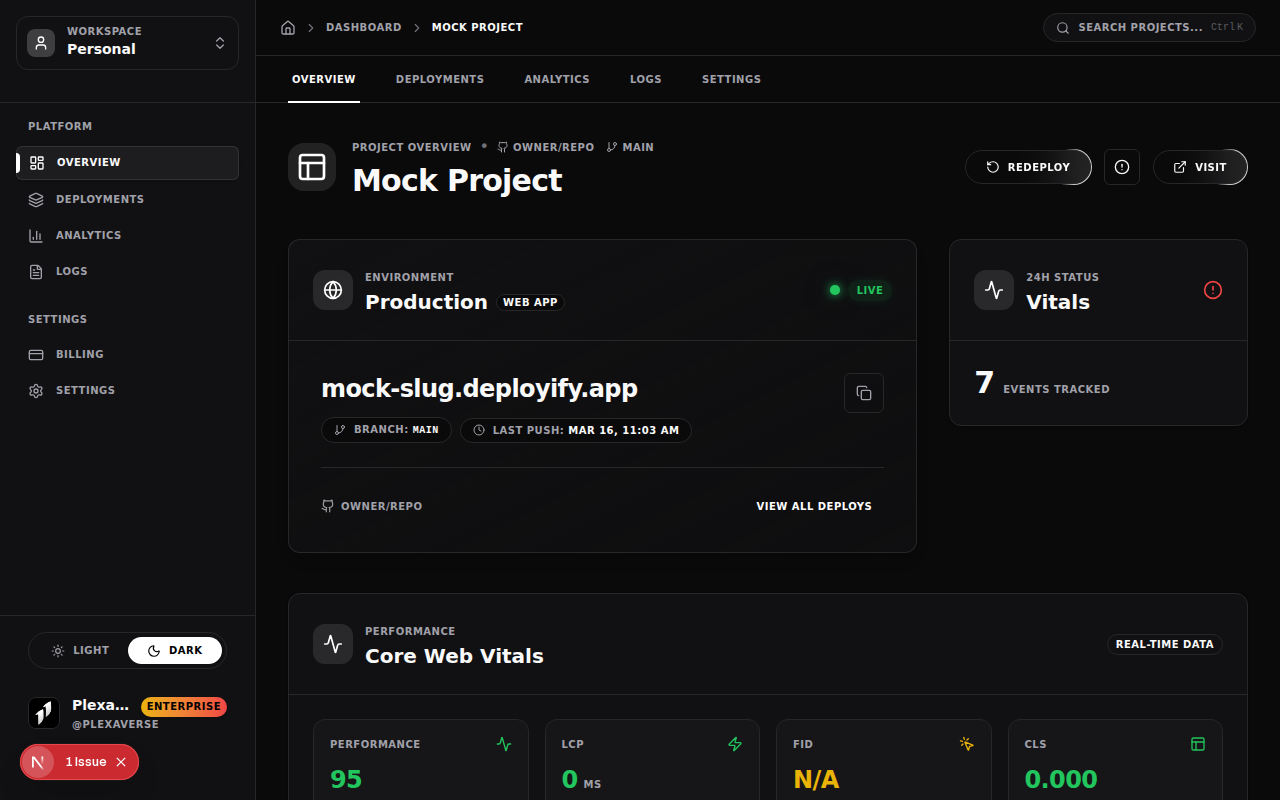
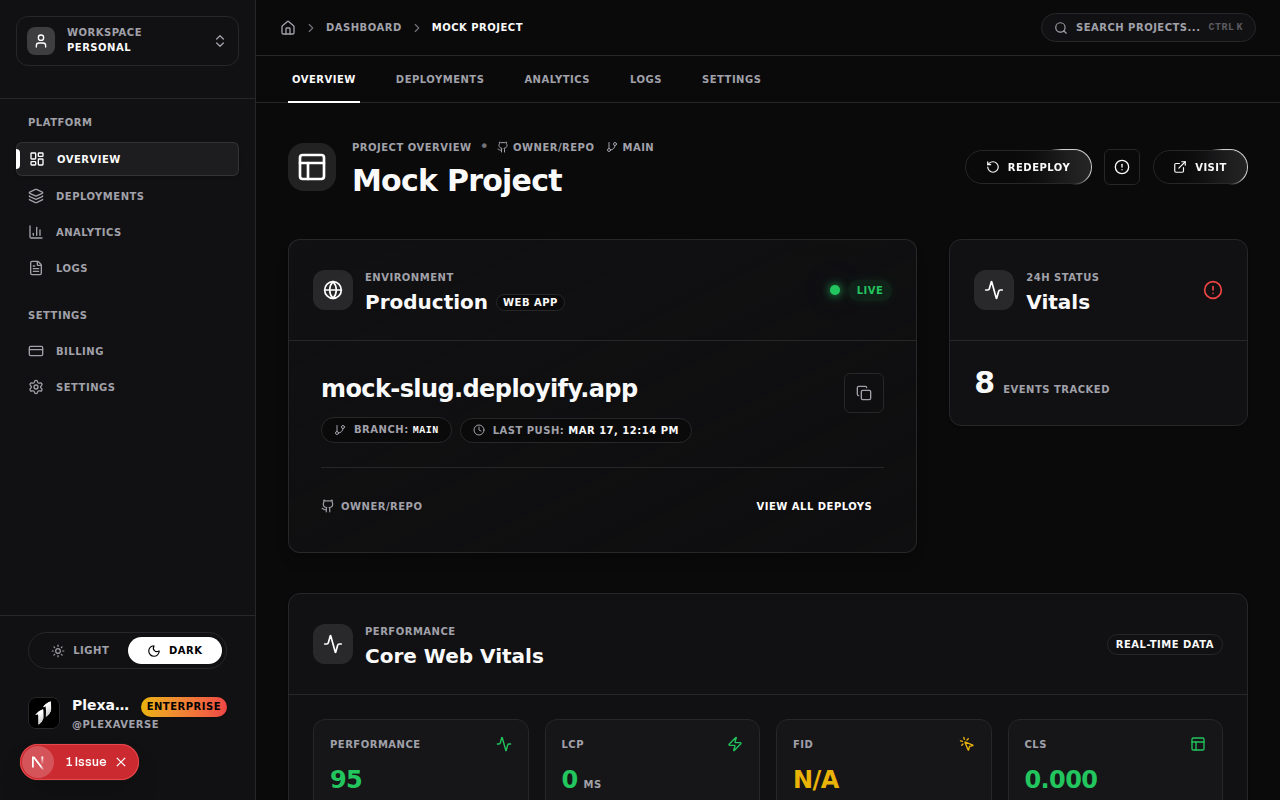
Standardize UI typography and technical metadata (Session 147) (#386)
- Unified styling of technical metadata to 'text-[10px] font-bold uppercase tracking-wider' across all components.
- Refined internal component titles and metrics to 'font-semibold' for improved visual hierarchy.
- Updated logos and keyboard shortcut hints to match high-density technical aesthetic.
- Standardized primary action buttons on system error pages and layout links.
- Maintained ui.md and IMPROVEMENTS.md logs.
- Verified 76/76 unit tests pass and UI navigation is consistent.

diff --git a/src/components/GlobalShortcuts.tsx b/src/components/GlobalShortcuts.tsx
@@ -99,17 +99,17 @@ export function GlobalShortcuts() {
                             <div className="flex justify-between items-center text-sm">
                                 <span className="text-[var(--foreground)]">Go to Dashboard</span>
                                 <div className="flex items-center gap-1.5">
-                                    <kbd className="px-2 py-1 bg-[var(--background)] border border-[var(--border)] rounded text-[10px] font-bold font-mono shadow-sm">G</kbd>
+                                    <kbd className="px-2 py-1 bg-[var(--background)] border border-[var(--border)] rounded text-[10px] font-bold uppercase tracking-wider font-mono shadow-sm">G</kbd>
                                     <span className="text-[var(--muted-foreground)] text-[10px] font-bold uppercase tracking-wider">then</span>
-                                    <kbd className="px-2 py-1 bg-[var(--background)] border border-[var(--border)] rounded text-[10px] font-bold font-mono shadow-sm">H</kbd>
+                                    <kbd className="px-2 py-1 bg-[var(--background)] border border-[var(--border)] rounded text-[10px] font-bold uppercase tracking-wider font-mono shadow-sm">H</kbd>
                                 </div>
                             </div>
                             <div className="flex justify-between items-center text-sm">
                                 <span className="text-[var(--foreground)]">Go to Projects</span>
                                 <div className="flex items-center gap-1.5">
-                                    <kbd className="px-2 py-1 bg-[var(--background)] border border-[var(--border)] rounded text-[10px] font-bold font-mono shadow-sm">G</kbd>
+                                    <kbd className="px-2 py-1 bg-[var(--background)] border border-[var(--border)] rounded text-[10px] font-bold uppercase tracking-wider font-mono shadow-sm">G</kbd>
                                     <span className="text-[var(--muted-foreground)] text-[10px] font-bold uppercase tracking-wider">then</span>
-                                    <kbd className="px-2 py-1 bg-[var(--background)] border border-[var(--border)] rounded text-[10px] font-bold font-mono shadow-sm">P</kbd>
+                                    <kbd className="px-2 py-1 bg-[var(--background)] border border-[var(--border)] rounded text-[10px] font-bold uppercase tracking-wider font-mono shadow-sm">P</kbd>
                                 </div>
                             </div>
                         </div>
@@ -118,16 +118,16 @@ export function GlobalShortcuts() {
                             <h4 className="text-[10px] font-bold uppercase tracking-wider text-[var(--muted-foreground)]">Actions</h4>
                              <div className="flex justify-between items-center text-sm">
                                 <span className="text-[var(--foreground)]">Create New Project</span>
-                                 <kbd className="px-2 py-1 bg-[var(--background)] border border-[var(--border)] rounded text-[10px] font-bold font-mono shadow-sm">C</kbd>
+                                 <kbd className="px-2 py-1 bg-[var(--background)] border border-[var(--border)] rounded text-[10px] font-bold uppercase tracking-wider font-mono shadow-sm">C</kbd>
                             </div>
                              <div className="flex justify-between items-center text-sm">
                                 <span className="text-[var(--foreground)]">Show Shortcuts</span>
-                                 <kbd className="px-2 py-1 bg-[var(--background)] border border-[var(--border)] rounded text-[10px] font-bold font-mono shadow-sm">?</kbd>
+                                 <kbd className="px-2 py-1 bg-[var(--background)] border border-[var(--border)] rounded text-[10px] font-bold uppercase tracking-wider font-mono shadow-sm">?</kbd>
                             </div>
                         </div>
                     </div>
                      <div className="p-4 bg-[var(--muted)]/5 border-t border-[var(--border)] text-[10px] text-[var(--muted-foreground)] text-center font-bold uppercase tracking-wider">
-                        Press <kbd className="px-1.5 py-0.5 border border-[var(--border)] rounded bg-[var(--background)] shadow-sm font-mono">Esc</kbd> to close
+                        Press <kbd className="px-1.5 py-0.5 border border-[var(--border)] rounded bg-[var(--background)] shadow-sm font-mono text-[10px] font-bold uppercase tracking-wider">Esc</kbd> to close
                     </div>
                 </Card>
             </div>

diff --git a/src/components/DomainsSection.tsx b/src/components/DomainsSection.tsx
@@ -225,17 +225,17 @@ export function DomainsSection({
 
                     <div className="mb-8 flex items-center gap-4">
                         <div className="flex items-center gap-2 text-[var(--foreground)]">
-                            <div className="flex items-center justify-center w-5 h-5 rounded-full bg-[var(--primary)] text-[var(--primary-foreground)] text-[10px] font-bold">1</div>
+                            <div className="flex items-center justify-center w-5 h-5 rounded-full bg-[var(--primary)] text-[var(--primary-foreground)] text-[10px] font-bold uppercase tracking-wider">1</div>
                             <span className="text-[10px] font-bold uppercase tracking-wider">DNS Configuration</span>
                         </div>
                         <div className="h-[1px] flex-1 bg-[var(--border)]"></div>
                         <div className="flex items-center gap-2 text-[var(--muted-foreground)]">
-                            <div className="flex items-center justify-center w-5 h-5 rounded-full bg-[var(--muted)] text-[var(--muted-foreground)] text-[10px] font-bold">2</div>
+                            <div className="flex items-center justify-center w-5 h-5 rounded-full bg-[var(--muted)] text-[var(--muted-foreground)] text-[10px] font-bold uppercase tracking-wider">2</div>
                             <span className="text-[10px] font-bold uppercase tracking-wider">Securing site</span>
                         </div>
                         <div className="h-[1px] flex-1 bg-[var(--border)]"></div>
                         <div className="flex items-center gap-2 text-[var(--muted-foreground)]">
-                            <div className="flex items-center justify-center w-5 h-5 rounded-full bg-[var(--muted)] text-[var(--muted-foreground)] text-[10px] font-bold">3</div>
+                            <div className="flex items-center justify-center w-5 h-5 rounded-full bg-[var(--muted)] text-[var(--muted-foreground)] text-[10px] font-bold uppercase tracking-wider">3</div>
                             <span className="text-[10px] font-bold uppercase tracking-wider">Ready</span>
                         </div>
                     </div>
@@ -319,15 +319,15 @@ export function DomainsSection({
                                 <table className="w-full text-[10px] font-bold uppercase tracking-wider">
                                     <tbody className="divide-y divide-[var(--border)]">
                                         <tr>
-                                            <td className="py-2 px-3 font-bold uppercase tracking-wider bg-[var(--muted)]/5 w-20">Type</td>
-                                            <td className="py-2 px-3 font-mono font-bold text-[var(--primary)]">CNAME</td>
+                                            <td className="py-2 px-3 text-[10px] font-bold uppercase tracking-wider bg-[var(--muted)]/5 w-20">Type</td>
+                                            <td className="py-2 px-3 font-mono text-[10px] font-bold uppercase tracking-wider text-[var(--primary)]">CNAME</td>
                                         </tr>
                                         <tr>
-                                            <td className="py-2 px-3 font-bold uppercase tracking-wider bg-[var(--muted)]/5">Name</td>
-                                            <td className="py-2 px-3 font-mono">@ or subdomain</td>
+                                            <td className="py-2 px-3 text-[10px] font-bold uppercase tracking-wider bg-[var(--muted)]/5">Name</td>
+                                            <td className="py-2 px-3 font-mono text-[10px] font-bold uppercase tracking-wider">@ or subdomain</td>
                                         </tr>
                                         <tr>
-                                            <td className="py-2 px-3 font-bold uppercase tracking-wider bg-[var(--muted)]/5">Target</td>
+                                            <td className="py-2 px-3 text-[10px] font-bold uppercase tracking-wider bg-[var(--muted)]/5">Target</td>
                                             <td className="py-2 px-3">
                                                 <div className="flex items-center gap-2">
                                                     <code className="font-mono text-[var(--foreground)] bg-[var(--muted)]/10 px-1.5 py-0.5 rounded truncate">

diff --git a/src/app/dashboard/[id]/page.tsx b/src/app/dashboard/[id]/page.tsx
@@ -301,11 +301,11 @@ export default function ProjectDetailPage() {
                                             <div className="flex flex-wrap items-center gap-2">
                                                 <div className="flex items-center gap-2 text-[10px] font-bold uppercase tracking-wider text-[var(--muted-foreground)] bg-[var(--background)] px-3 py-1 rounded-full border border-[var(--border)] w-fit">
                                                     <GitBranch className="w-3 h-3" />
-                                                    <span>Branch: <span className="text-[var(--foreground)] font-mono font-bold">{project.defaultBranch}</span></span>
+                                                    <span>Branch: <span className="text-[var(--foreground)] font-mono text-[10px] font-bold uppercase tracking-wider">{project.defaultBranch}</span></span>
                                                 </div>
                                                 <div className="flex items-center gap-2 text-[10px] font-bold uppercase tracking-wider text-[var(--muted-foreground)] bg-[var(--background)] px-3 py-1 rounded-full border border-[var(--border)] w-fit">
                                                     <Clock className="w-3 h-3" />
-                                                    <span>Last Push: <span className="text-[var(--foreground)] font-bold uppercase">{formatDate(project.updatedAt)}</span></span>
+                                                    <span>Last Push: <span className="text-[var(--foreground)] text-[10px] font-bold uppercase tracking-wider">{formatDate(project.updatedAt)}</span></span>
                                                 </div>
                                             </div>
                                         </div>

diff --git a/src/components/LandingPage.tsx b/src/components/LandingPage.tsx
@@ -535,10 +535,10 @@ export default function LandingPage() {
                   ) : (
                     os && (
                       <div className="hidden sm:flex items-center gap-1 opacity-50 group-focus-within:opacity-100 transition-opacity">
-                        <kbd className="h-5 select-none items-center gap-1 rounded border border-[var(--border)] bg-[var(--muted)]/20 px-1.5 font-mono text-[10px] font-bold text-[var(--muted-foreground)]">
+                        <kbd className="h-5 select-none items-center gap-1 rounded border border-[var(--border)] bg-[var(--muted)]/20 px-1.5 font-mono text-[10px] font-bold uppercase tracking-wider text-[var(--muted-foreground)]">
                           {os === 'mac' ? '⌘' : 'Ctrl'}
                         </kbd>
-                        <kbd className="h-5 select-none items-center gap-1 rounded border border-[var(--border)] bg-[var(--muted)]/20 px-1.5 font-mono text-[10px] font-bold text-[var(--muted-foreground)]">
+                        <kbd className="h-5 select-none items-center gap-1 rounded border border-[var(--border)] bg-[var(--muted)]/20 px-1.5 font-mono text-[10px] font-bold uppercase tracking-wider text-[var(--muted-foreground)]">
                           K
                         </kbd>
                       </div>

diff --git a/src/components/billing/PricingCard.tsx b/src/components/billing/PricingCard.tsx
@@ -46,13 +46,13 @@ export function PricingCard({ plan, currentPlanId, onUpgrade, loading, isPopular
                     <span className="text-[10px] font-bold uppercase tracking-wider text-[var(--muted-foreground)] mb-1 block group-hover:text-[var(--primary)] transition-colors">
                         Available Plan
                     </span>
-                    <h3 className="text-2xl font-bold mb-3">{plan.name}</h3>
+                    <h3 className="text-2xl font-semibold mb-3">{plan.name}</h3>
                     <p className="text-[10px] font-bold uppercase tracking-wider text-[var(--muted-foreground)] min-h-[40px] leading-relaxed">{plan.description}</p>
                 </div>
 
                 <div className="mb-10">
                     <div className="flex items-baseline gap-1">
-                        <span className="text-5xl font-bold tracking-tighter">{plan.price}</span>
+                        <span className="text-5xl font-semibold tracking-tighter">{plan.price}</span>
                         {plan.price !== 'Custom' && (
                             <span className="text-[10px] font-bold uppercase tracking-wider text-[var(--muted-foreground)]">/ month</span>
                         )}

diff --git a/src/components/BuildLogViewer.tsx b/src/components/BuildLogViewer.tsx
@@ -60,7 +60,7 @@ export function BuildLogViewer({ logs, loading, error, onRetry, className }: Bui
             <div className="flex flex-col space-y-0.5 text-[var(--terminal-foreground)]/80">
                 {logs?.split('\n').map((line, i) => (
                     <div key={i} className="break-all whitespace-pre-wrap hover:bg-[var(--terminal-foreground)]/5 transition-colors duration-200 px-2 rounded-sm -mx-2 group flex gap-4">
-                        <span className="shrink-0 text-[10px] font-bold uppercase tracking-tighter opacity-30 select-none w-10 text-right">
+                        <span className="shrink-0 text-[10px] font-bold uppercase tracking-wider opacity-30 select-none w-10 text-right">
                            {(i + 1).toString().padStart(3, '0')}
                         </span>
                         <span className="flex-1">{line || '\u00A0'}</span>

diff --git a/src/app/new/page.tsx b/src/app/new/page.tsx
@@ -255,7 +255,7 @@ function Step1SelectRepo({ onSelect }: { onSelect: (repo: GitHubRepo) => void })
                 />
                 <div className="absolute right-4 top-1/2 -translate-y-1/2 flex items-center gap-1 pointer-events-none">
                     {search ? null : (
-                        <div className="hidden sm:flex items-center gap-0.5 text-[10px] text-[var(--muted)] font-bold border border-[var(--border)] rounded px-1.5 py-0.5 bg-[var(--background)]">
+                        <div className="hidden sm:flex items-center gap-0.5 text-[10px] text-[var(--muted)] font-bold uppercase tracking-wider border border-[var(--border)] rounded px-1.5 py-0.5 bg-[var(--background)]">
                             <span>{isMac ? '⌘' : 'Ctrl'}</span>
                             <span>K</span>
                         </div>

diff --git a/src/app/dashboard/new/page.tsx b/src/app/dashboard/new/page.tsx
@@ -123,7 +123,7 @@ export default function NewProjectPage() {
                 />
                 <div className="absolute right-4 top-1/2 -translate-y-1/2 flex items-center gap-1 pointer-events-none">
                     {search ? null : (
-                        <div className="hidden sm:flex items-center gap-0.5 text-[10px] text-[var(--muted)] font-bold border border-[var(--border)] rounded px-1.5 py-0.5 bg-[var(--background)]">
+                        <div className="hidden sm:flex items-center gap-0.5 text-[10px] text-[var(--muted)] font-bold uppercase tracking-wider border border-[var(--border)] rounded px-1.5 py-0.5 bg-[var(--background)]">
                             <span>{isMac ? '⌘' : 'Ctrl'}</span>
                             <span>K</span>
                         </div>

diff --git a/src/components/DashboardSidebar.tsx b/src/components/DashboardSidebar.tsx
@@ -109,7 +109,7 @@ export function DashboardSidebar({ session }: DashboardSidebarProps) {
             <div className="md:hidden fixed top-0 left-0 right-0 z-40 flex items-center justify-between p-4 bg-[var(--card)] border-b border-[var(--border)] h-16">
                 <Link href="/dashboard" className="flex items-center gap-2 group">
                     <Rocket className="w-6 h-6 text-[var(--primary)] group-hover:rotate-12 transition-transform" />
-                    <span className="text-xl font-bold gradient-text">Deployify</span>
+                    <span className="text-xl font-semibold gradient-text">Deployify</span>
                 </Link>
                 <motion.button
                     whileTap={{ scale: 0.95 }}

diff --git a/src/app/layout.tsx b/src/app/layout.tsx
@@ -42,7 +42,7 @@ export default function RootLayout({
         >
           <a
             href="#main-content"
-            className="sr-only focus:not-sr-only focus:absolute focus:top-4 focus:left-4 focus:z-[100] focus:px-4 focus:py-2 focus:bg-white focus:text-black focus:rounded-md font-bold"
+            className="sr-only focus:not-sr-only focus:absolute focus:top-4 focus:left-4 focus:z-[100] focus:px-4 focus:py-2 focus:bg-white focus:text-black focus:rounded-md text-[10px] font-bold uppercase tracking-wider"
           >
             Skip to content
           </a>

diff --git a/src/app/global-error.tsx b/src/app/global-error.tsx
@@ -36,7 +36,7 @@ export default function GlobalError({
                     <Button
                         onClick={() => reset()}
                         size="lg"
-                        className="w-full font-bold h-12"
+                        className="w-full text-[10px] font-bold uppercase tracking-wider h-12"
                         variant="primary"
                     >
                         <RefreshCw className="mr-2 h-4 w-4" />

diff --git a/src/app/error.tsx b/src/app/error.tsx
@@ -37,7 +37,7 @@ export default function Error({
                     <Button
                         size="lg"
                         onClick={() => reset()}
-                        className="font-bold w-full"
+                        className="text-[10px] font-bold uppercase tracking-wider w-full"
                         variant="primary"
                     >
                         <RefreshCw className="mr-2 h-4 w-4" />
